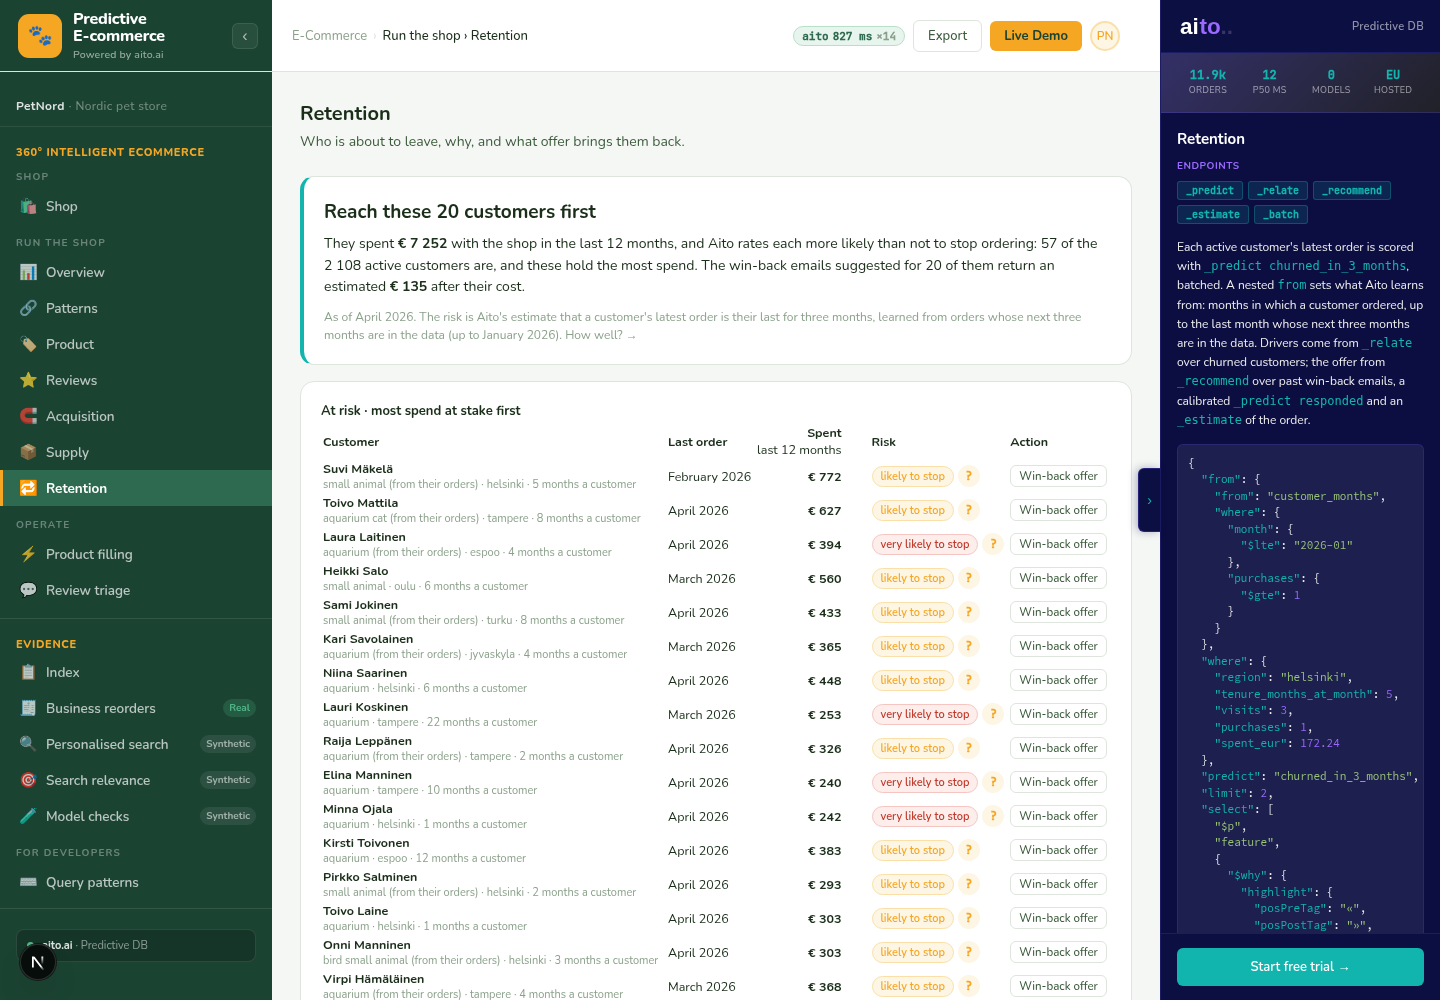
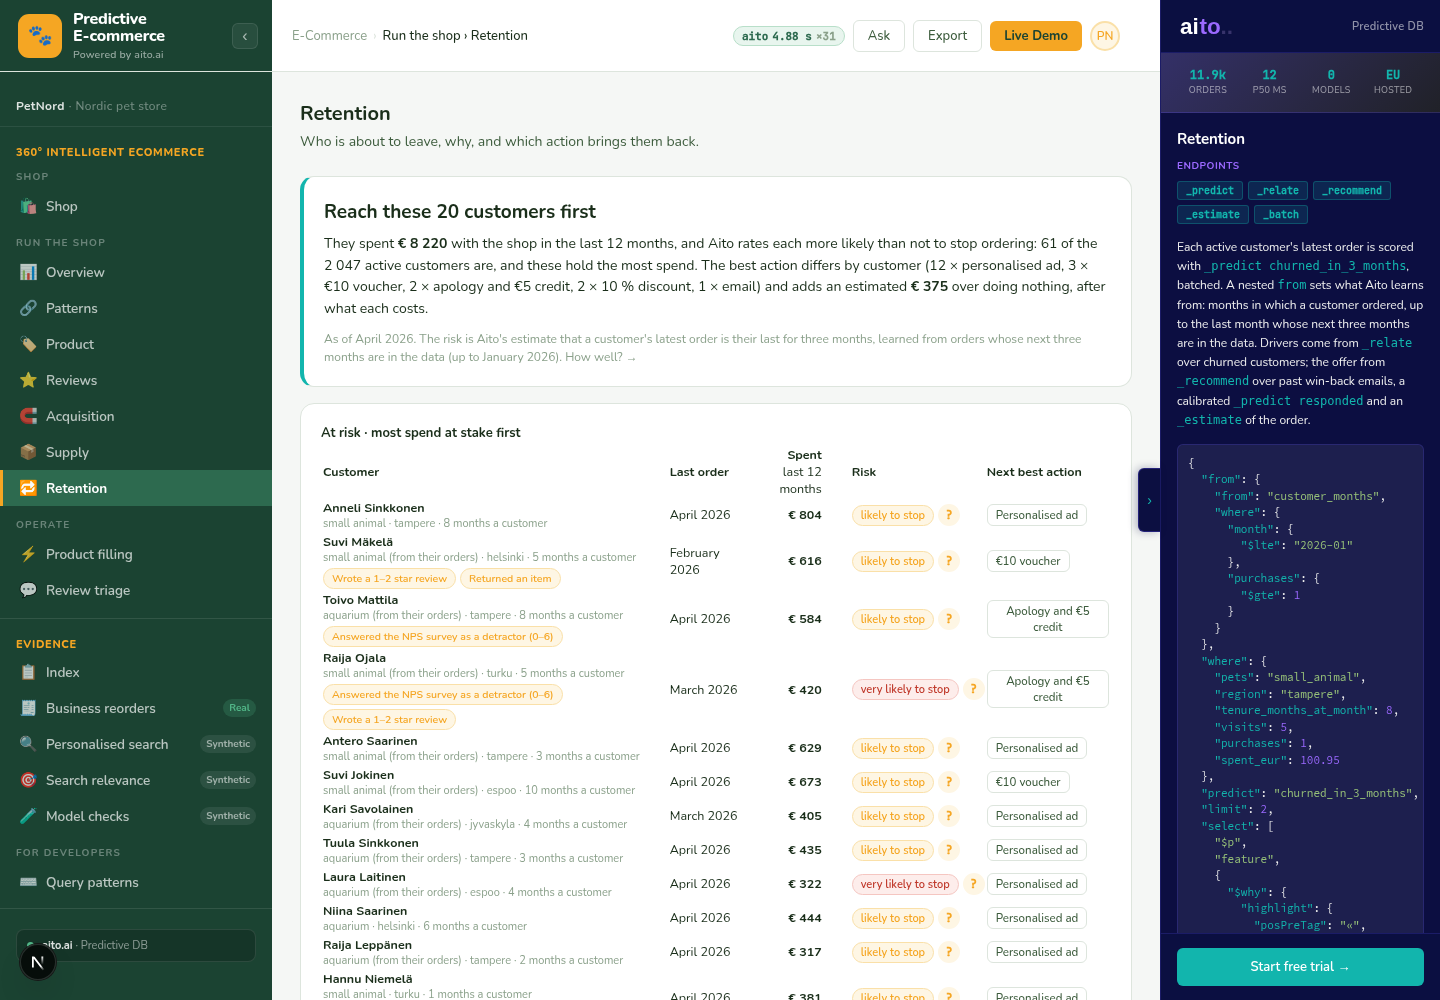
Post-promote refresh for release 3b: README, screenshots, demo script, ADR 0051 status, session log
Claude-Session: https://claude.ai/code/session_01JNKA6ovmTRy9Lh2Yg1gUpL

diff --git a/docs/demo-script.md b/docs/demo-script.md
@@ -14,8 +14,12 @@ on the real-data evidence:
 
 Each beat lists what to click, what to say, the number on screen and its
 basis, the one caveat, and a recovery line. Every number was read on
-2026-10-27 through the code paths named below, on `master`, which holds data
-release 3a (ADR 0049, 0050), except the sections that say otherwise. The
+2026-10-27 through the code paths named below, on `master`, which then held data
+release 3a (ADR 0049, 0050). **Release 3b went live on 2026-10-29** (the data was
+regenerated with churn tells and the action table, ADR 0051). Only section 1's
+Supply numbers have been re-read since, from the release 3b snapshot; every other
+number below is release 3a's and must be re-read before a partner demo (Product, the
+Funnel and Pricing tabs, the Shop, the model checks), except the sections that say otherwise. The
 sandbox template is loaded from release 2's files until it is reloaded, so a
 sandbox run may differ from these (see "Open before a partner demo" at the end).
 Numbers that need a sandbox are marked **(Sunday)** and carry no figure until
@@ -37,8 +41,13 @@ plain caveat line. It changes no number: every basis is one click away.
 Keep the sandbox link from the pre-flight in a second tab.
 
 **Not on the path:** Patterns (it stays in "If there's time"), and
-Retention. If Retention comes up, lead with who to reach and why, not with
-the €135 the win-back emails return: that is a small, synthetic sum.
+Retention. If Retention comes up (retention and loyalty are the Cartman storyline), lead with
+who to reach, what they have been through and which action fits them (an email,
+a discount, a voucher, an ad or an apology, each against doing nothing), not with
+the euros: the actions and their outcomes are simulated and the page says so. Open the next
+best action for one customer; say that an ad is only offered to customers who consented to
+tracking, and that the model's top action is the generator's best for 81 % of customers
+(`docs/verification/action-recovery.md`).
 
 ---
 
@@ -52,8 +61,8 @@ euros follow from that forecast."
 
 | On screen | Number | Basis |
 |---|---|---|
-| Reorder these 83 now | an estimated €11,682 of May's sales can't be served without them; 730 units, €11,026 at cost | `_estimate units_sold` per SKU for May 2026, against stock and the reorder point (`src/supply_rows.py`); served from the precompute snapshot (`./do precompute`), which must be re-taken after a data release |
-| €27,590 tied up in 79 overstocked products | say only the €27,590. Don't present the markdown split ("14 won't clear, none worth marking down") as a finding: it is the units model by price alone, which counts neither an offer's lift on purchases when shown (×1.79 at 20 %+) nor the higher place it earns in the shop, so it understates an offer and contradicts Product's "put it on offer" | the same `_estimate` at 5–20 % off, over 13 weeks; price only |
+| Reorder these 83 now | an estimated €10,272 of May's sales can't be served without them; 664 units, €9,924 at cost | `_estimate units_sold` per SKU for May 2026, against stock and the reorder point (`src/supply_rows.py`); served from the precompute snapshot (`./do precompute`), which must be re-taken after a data release |
+| €27,566 tied up in 79 overstocked products | say only the €27,566. Don't present the markdown split ("14 won't clear, none worth marking down") as a finding: it is the units model by price alone, which counts neither an offer's lift on purchases when shown (×1.79 at 20 %+) nor the higher place it earns in the shop, so it understates an offer and contradicts Product's "put it on offer" | the same `_estimate` at 5–20 % off, over 13 weeks; price only |
 
 **Caveat (the page's one line):** the forecasts are Aito's estimates for
 May; the euros follow from them. **How well? →** opens the model checks.

diff --git a/docs/sessions/2026-10-29.md b/docs/sessions/2026-10-29.md
@@ -1,0 +1,36 @@
+# Session log, 2026-10-28 and 2026-10-29
+
+## What shipped
+- 28.10: release 3a live on prod (main 04f2349): #119 funnel ranked rates, #121 snapshots, #118, #117, #113, #72,
+  #122 (two aito-check claims as non-strict expected failures), #123 README and screenshots, #124 model checks on 3a,
+  #125 the funnel calibration probe and report.
+- 29.10: release 3b live on prod (main 4f99a9f, image 2026-10-29.14269b3): #126 Retention's ranked actions
+  (`customer_actions`, `action_contexts`, ADR 0051 slice 1) and #127 the churn tells in the generator (A6 late
+  delivery, A7 returns, R4 ×3.0, A9 a hidden satisfaction trait; prereg amendment). The promote ran as the split
+  stopgap (deploy, then `switch_to_release3b.sh`); backup `master-backup-20261029`.
+- #128 (open): the two aito-check search sessions re-picked for the final data.
+
+## Blocked or stuck
+- The one-command cutover of ADR 0035 does not exist; the promote key is still Antti's open decision.
+- Unusual-events view (CPO), the MyCashflow kit and the Evaluation-snapshot item (td-20260915230157220135) are held for Antti.
+- The demo script's numbers other than Supply's are still release 3a's; the sandbox template is not reloaded for 3b.
+- R2b (a poor product converts less, margin ≤ 0.8) sits at 0.82–0.89 on all three seeds since the churn change: not diagnosed.
+
+## Aito quirks
+- A flat `_predict` over one table adds evidence column by column, so it cannot separate an action's effect by context:
+  every action lifted every context. Crossing the action with each context column (`action_x_<context>`) fixed most of it.
+  A parameter column must be its own: an apology's €5 credit stored as `voucher_eur = 5` read as evidence for vouchers.
+- "Any action beats none" bias remains: an ad to a customer who declined tracking rated a few points above none, so ads
+  are a rule (consent), not learned. `$on` in a `where` is accepted (200) but did not change this; not documented, not used.
+- A never-seen evidence value returns the base rate with a 200 (the service validates the vocabulary); `{"$numeric": x}` on a
+  linked Decimal matched like the exact value.
+- The assignment must vary: with only rule-driven actions Aito recovered the best action for 48 % of customers, with half
+  randomised 81 %.
+
+## Surprising
+- A tell flagged "ever" looks protective (0.76–0.96×) because customers who stay order more and so meet more events; the
+  fair measure is the churn panel among customers who had just ordered. The real cause of "no effect" was the generator:
+  returns were drawn from lifestyle alone and a late delivery never touched the churn hazard.
+- Regenerating churn moves every table (orders −4 %): stock and star ratings follow sales, so the Shop's shoppers had to be
+  re-picked (Juhani CUST-01825, Helena CUST-00070) and pinned test sessions re-picked twice.
+- The tool hook blocks shell commands whose text mentions the credentials file; probe scripts that read it go in files.

diff --git a/README.md b/README.md
@@ -35,10 +35,15 @@ react.
 
 ![Product: the funnel and the offer decision](screenshots/product-funnel.png)
 
-**Retention.** Who is about to leave, why, and which win-back email brings them
-back, ranked by the spend at stake.
+**Retention.** Who is about to leave, what they have been through (an NPS
+answer, a review, a return, a late delivery), and which action brings them back:
+an email, a discount, a voucher, an ad or an apology, each against doing nothing,
+after what it costs. The next best action opens as a dialog. The actions and their
+outcomes are simulated (ADR 0051), and the page says so.
 
 ![Retention: who to reach first](screenshots/retention.png)
+
+![Retention: the next best action for one customer](screenshots/retention-actions.png)
 
 **Evidence, on real data.** On UCI Online Retail II: "For buyers with 1–2
 earlier orders, Aito's top suggestion was in their next orders 31 % of the
@@ -63,7 +68,7 @@ cp .env.example .env      # 1. your Aito URL and key (a read-only key is enough)
 ./do dev                  # 3. http://localhost:8500
 ```
 
-The demo database's master holds data release 3a (ADR 0049). The app
+The demo database's master holds data release 3b (ADR 0051, slice 1, and the churn tells of ADR 0039's amendment). The app
 waits for its data release (ADR 0035): until master matches
 `data/release-env.json` it answers "data release pending".
 
@@ -161,9 +166,9 @@ AITO_API_KEY=your-dev-instance-key
 
 The data is deterministic (`data/generate_fixtures.py`, seed 42), so a
 dev instance is an exact copy. The release's row counts are in
-`data/release-env.json`: 658 products, 3,000 customers, 11,909 orders,
-39,098 order lines, 117,026 impressions, 15,157 product states, 6,000
-reviews.
+`data/release-env.json`: 658 products, 3,000 customers, 10,594 orders,
+36,357 order lines, 95,072 impressions (43,390 ranked and 51,682 unranked
+showings), 15,157 product states, 5,202 reviews, 5,626 recorded actions.
 
 `GET /version` says which commit and which Aito env a deployment runs
 (`"api": "v2@observable"`). Set `BUILD_SHA` at build time.
@@ -237,7 +242,7 @@ Read them in order for the design's rationale. All are in
 | 0048 | [Product KPIs by properties](docs/adr/0048-product-kpis-by-properties.md): clicks and purchases, explained and editable |
 | 0049 | [Data release 3: the list price and the listing as state](docs/adr/0049-data-release-3-price-and-listing-state.md) |
 | 0050 | [Pricing tab and the funnel](docs/adr/0050-product-pricing-tab-and-funnel.md): impressions → clicks → purchases → profit |
-| 0051 | [Actions and their outcomes](docs/adr/0051-actions-and-their-outcomes.md) (proposed, release 3b): retention, ads, availability, customer messages |
+| 0051 | [Actions and their outcomes](docs/adr/0051-actions-and-their-outcomes.md) (slice 1 live in release 3b: ranked retention actions; messages and availability proposed) |
 
 ---
 

diff --git a/docs/adr/0051-actions-and-their-outcomes.md b/docs/adr/0051-actions-and-their-outcomes.md
@@ -1,6 +1,6 @@
 # ADR 0051: Actions and their outcomes — retention, advertising, availability and customer messages
 
-**Status:** Proposed (2026-10-28; release 3b). Antti: retention and loyalty should cover a wider range of actions
+**Status:** Slice 1 accepted and live (2026-10-29, data release 3b: `customer_actions`, `action_contexts`, Retention's ranked actions). The messages, employees and availability parts are still proposed. Antti: retention and loyalty should cover a wider range of actions
 (personalized discounts, vouchers or compensation, messages tied to something the customer did, personalized
 advertising); availability is an action for the shop ("something out of stock but orderable with a wait time");
 "an action table with one or more context, action, parameter(s) and KPI … the data should stage a situation where an
